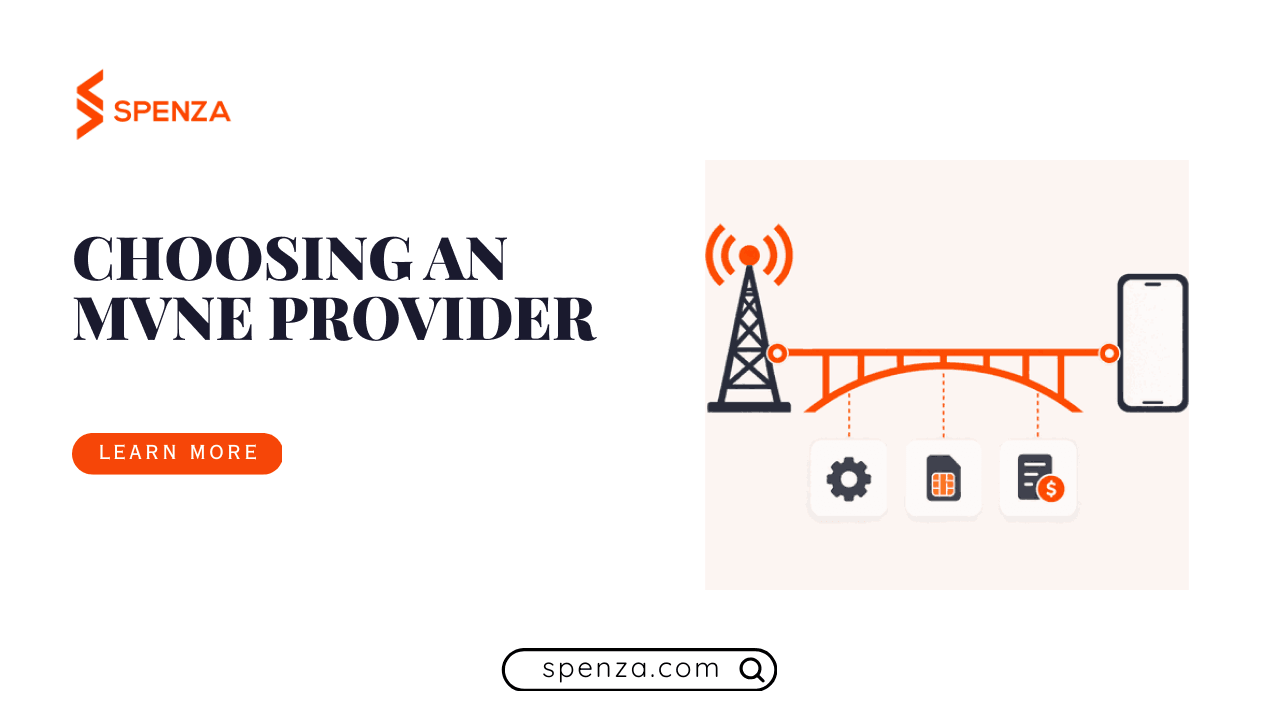
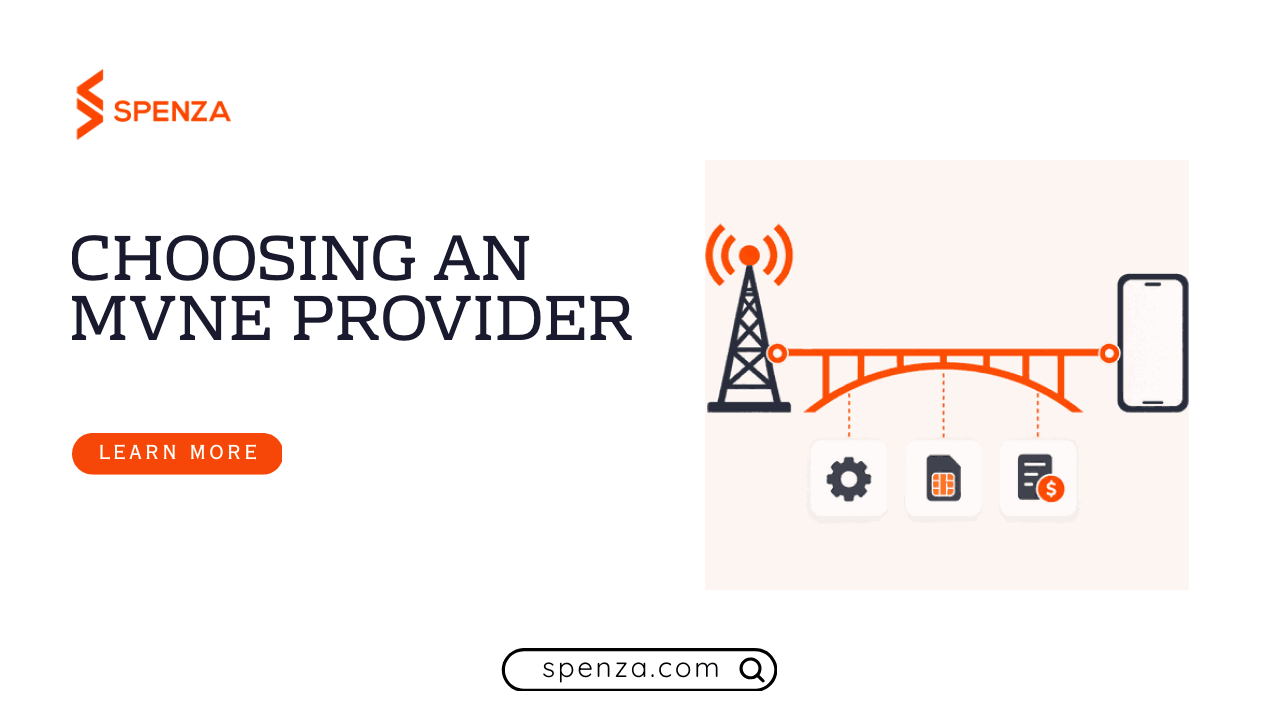
Reset three local hero titles in Rhodium Libre with thumbnail checks

Changed region(s): [[0.0312, 0.3056, 0.5, 0.4889]]

diff --git a/docs/merge-research/hero-rhodium-rebuild.md b/docs/merge-research/hero-rhodium-rebuild.md
@@ -1,0 +1,15 @@
+# Rhodium Libre hero title rebuild
+
+24 September 2026. Three local heroes rebuilt across the completed MVNO and eSIM hubs. The preview manifest and all public/blog-media files were inventoried. All seven eSIM heroes reference published media URLs; none was restyled. Body figures were not changed.
+
+The supplied TTF was downloaded once to /tmp/RhodiumLibre.ttf. Its internal name table identifies Rhodium Libre, Regular, version1.001. Chromium FontFace loaded that exact file and rasterized all-caps titles at64px, weight400. Sharp composited the title layer only and regenerated PNG/WebP pairs. An initial sharp/Pango render substituted a sans-serif and was rejected; it is not the committed output.
+
+|Cluster|Local hero PNG, with matching WebP|New title|Measured cap height|Block width|320px visual result|
+|---|---|---|---:|---:|---|
+|M21|public/blog-media/mvne-explained/What-Is-an-MVNE-Services-and-Responsibilities.png|MVNE SERVICES / AND ROLES|45.06px|540.54px|PASS: both lines read clearly; slab serifs and inner strokes remain visible.|
+|M19|public/blog-media/mvno-trends/MVNO-Trends-2026-Is-Free-Data-the-Future.png|MVNO TRENDS / IS DATA FREE?|44.80to45.06px|491.90px|PASS: both lines and question mark remain distinct without broken letterforms.|
+|M12|public/blog-media/mvne-provider-selection/MVNE-Provider-Selection.png|CHOOSING AN / MVNE PROVIDER|45.06px|559.49px|PASS: the longer provider line remains legible and separate from the art panel.|
+
+Each optimized PNG was scaled to320x180 and inspected individually. Two lines each,60px baseline spacing,x72. Titles were shortened instead of reducing type. Pixel comparison against the pre-rebuild committed PNGs found **zero changed pixels outside x72,y220,width600,height195** for every hero. Art panels, logos, LEARN MORE pills and spenza.com badges therefore remain pixel-identical in the PNGs. WebP twins are fresh lossy encodings of those PNGs.
+
+Verification: npm run merge:qa,19/19PASS. npx astro check,0errors and0warnings; existing hints remain. No article prose, media URL, author or information-gain score changed. Rebuild committed separately from IoT work.
